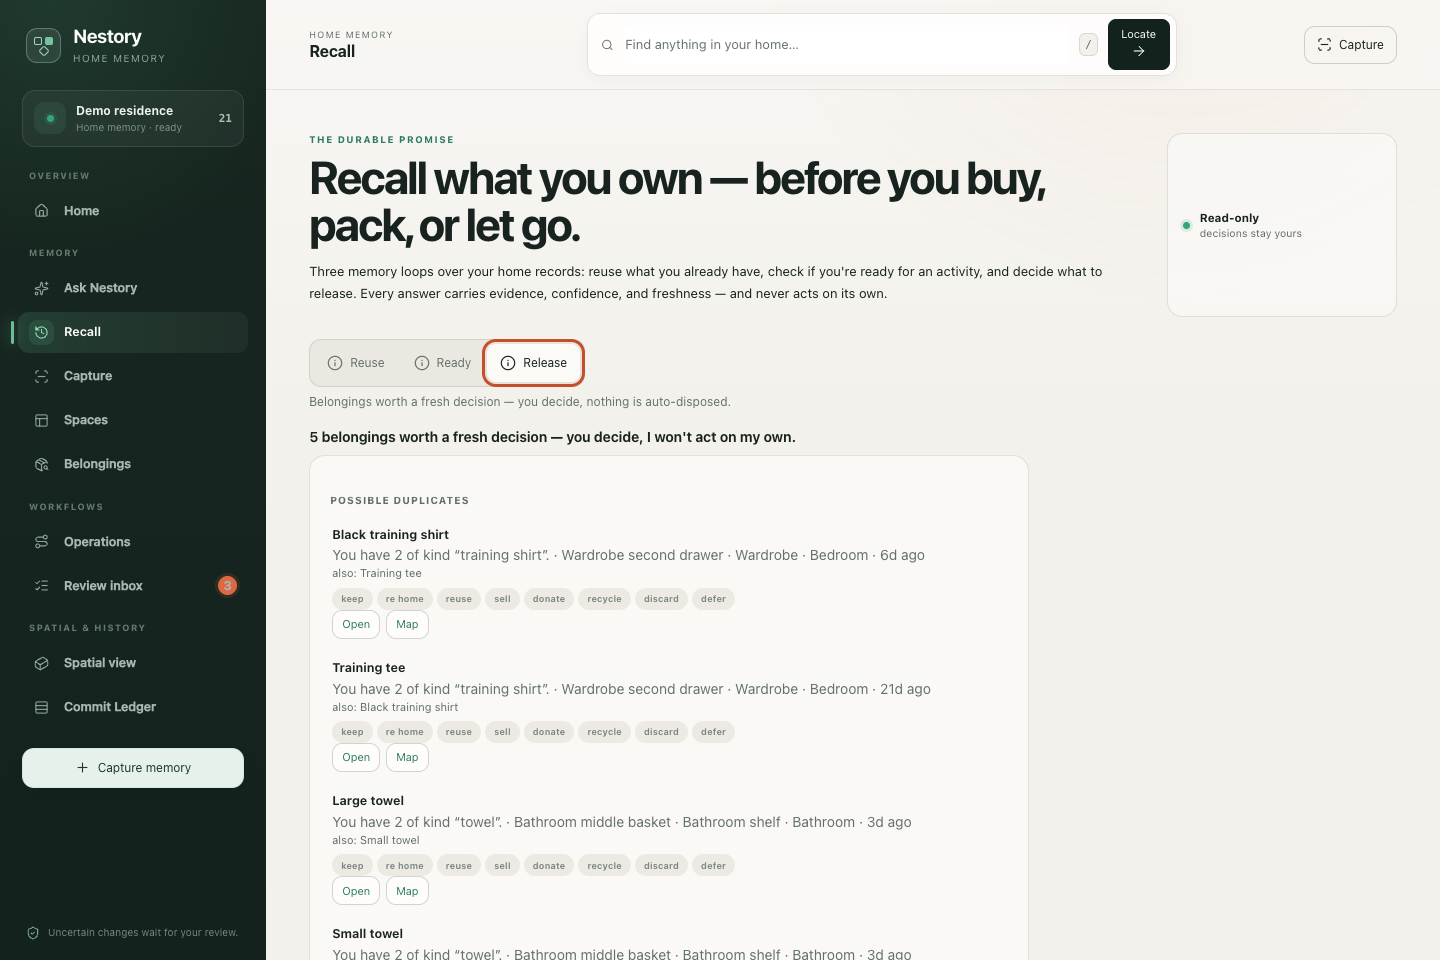
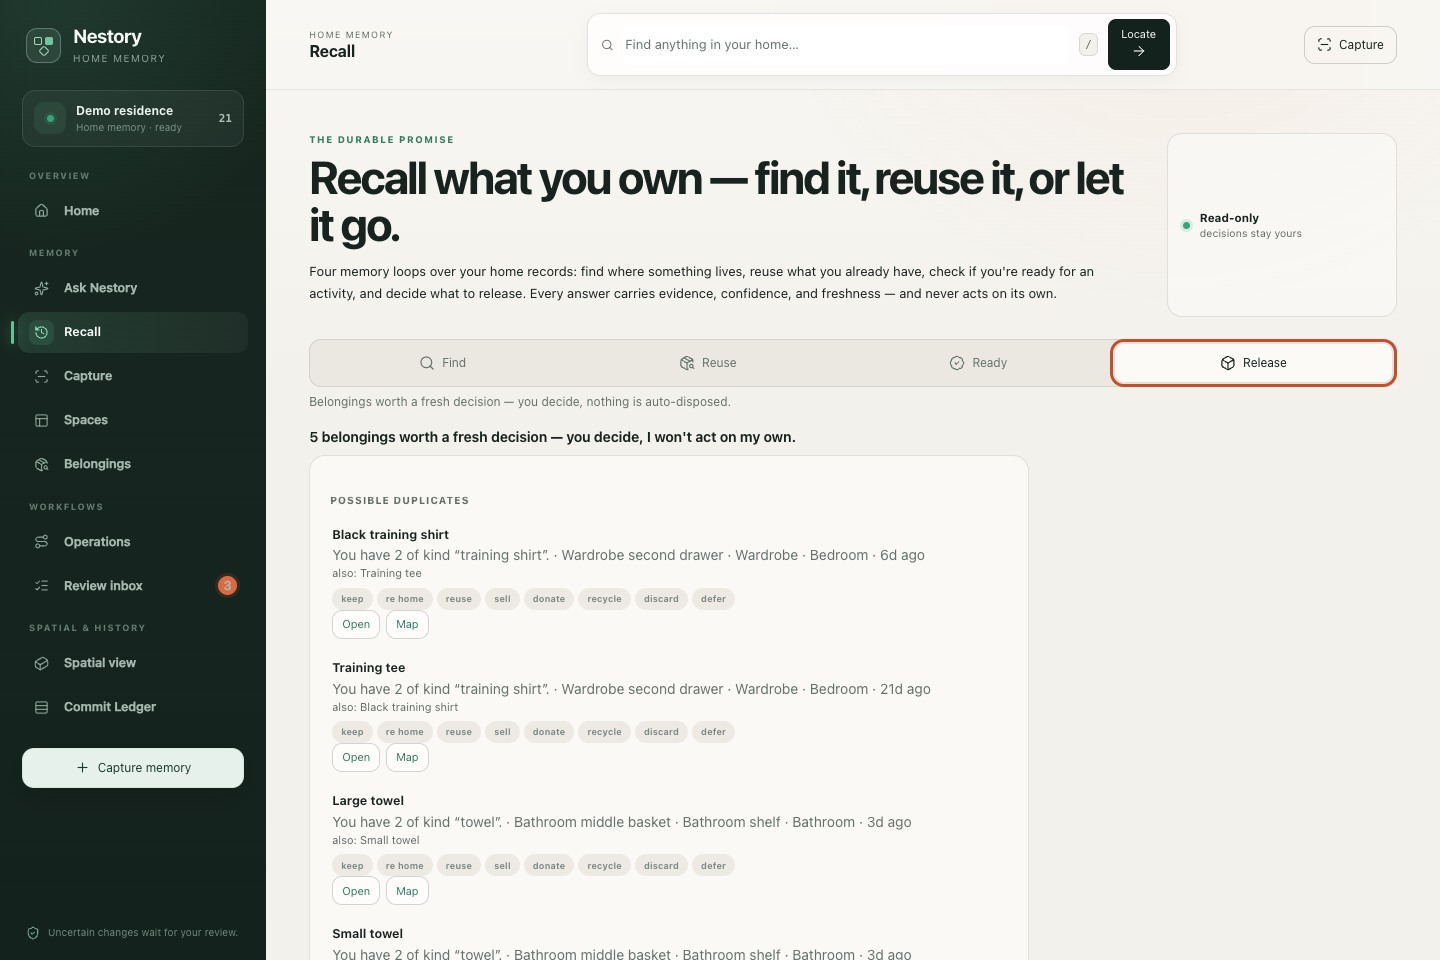
feat(nestory): add a Find tab to the Recall hub — all four vision §5 loops in one place (#14)
The Recall hub covered Reuse/Ready/Release but the Remember/Retrieve loop
(locate + which-box) lived only in the top search bar and Ask. Now Find is the
first Recall tab and the default: one query runs locate() AND whichContainerHas(),
rendering the answer card + the which-container card (both with the #10 evidence
contract) and pairing the located item with the spatial selection so "Show on
plan" reinforces. The container card only appears when locate succeeds, so a
query with no trusted item never shows a lone box list.

Also fixed the tab icons, which were silently falling back to the info glyph:
recycle/circle-check-big/package-minus aren't in lucide-lite, so Reuse/Ready/
Release (and the home "Ready check" + panel empty states) now use real bundled
icons (package-search / badge-check / box). Recall tabs wrap + flex so the 4-tab
bar fits 320px without document overflow.

verify: 546/546 (+dom-recall-find-runs; reuse test now clicks its tab first).

diff --git a/prototype-v2/src/app.ts b/prototype-v2/src/app.ts
@@ -181,11 +181,14 @@ interface UIState {
   containerItemsQuery: string;
   containerItemsOffset: number;
   mediaPending: { room: boolean; container: boolean; snapshot: boolean };
-  recallTab: "reuse" | "ready" | "release";
+  recallTab: "find" | "reuse" | "ready" | "release";
   ownershipQuery: string;
   ownershipResult: DeepReadonly<OwnershipRecallAnswer> | null;
   capabilityQuery: string;
   capabilityResult: DeepReadonly<HomeCapabilityResult> | null;
+  findQuery: string;
+  findResult: DeepReadonly<LocateAnswer> | null;
+  findHits: DeepReadonly<WhichContainerHit[]> | null;
 }
 
 const ui: UIState = {
@@ -219,11 +222,14 @@ const ui: UIState = {
   containerItemsQuery: "",
   containerItemsOffset: 0,
   mediaPending: { room: false, container: false, snapshot: false },
-  recallTab: "reuse",
+  recallTab: "find",
   ownershipQuery: "",
   ownershipResult: null,
   capabilityQuery: "",
-  capabilityResult: null
+  capabilityResult: null,
+  findQuery: "",
+  findResult: null,
+  findHits: null
 };
 
 const compactHomeQuery = window.matchMedia("(max-width: 760px)");
@@ -1323,16 +1329,33 @@ function doAsk(raw: string): AskReply | null {
 }
 
 // ---------------------------------------------------------------- recall
-// The Recall hub gives the three durable retention loops (vision §5) a home of
-// their own instead of living only inside the Ask chat: Reuse (Ownership Recall),
-// Ready (Home Capability), Release (Declutter Review). Each panel is fully
-// interactive and renders the SAME result card the Ask surface uses.
+// The Recall hub gives the vision §5 loops a home of their own instead of living
+// only inside the Ask chat: Find (Remember/Retrieve — locate + which-box), Reuse
+// (Ownership Recall), Ready (Home Capability), Release (Declutter Review). Each
+// panel is fully interactive and renders the SAME result card the Ask surface uses.
 
 const RECALL_TABS: ReadonlyArray<{ id: UIState["recallTab"]; icon: string; label: string; blurb: string }> = [
-  { id: "reuse", icon: "recycle", label: "Reuse", blurb: "Before you buy — do you already own one, or a usable substitute?" },
-  { id: "ready", icon: "circle-check-big", label: "Ready", blurb: "Can your home do this right now, with what you already own?" },
-  { id: "release", icon: "package-minus", label: "Release", blurb: "Belongings worth a fresh decision — you decide, nothing is auto-disposed." }
+  { id: "find", icon: "search", label: "Find", blurb: "Where is it — and which box or drawer holds it? Every answer carries confidence and freshness." },
+  { id: "reuse", icon: "package-search", label: "Reuse", blurb: "Before you buy — do you already own one, or a usable substitute?" },
+  { id: "ready", icon: "badge-check", label: "Ready", blurb: "Can your home do this right now, with what you already own?" },
+  { id: "release", icon: "box", label: "Release", blurb: "Belongings worth a fresh decision — you decide, nothing is auto-disposed." }
 ];
+
+// Find (Remember/Retrieve): one query answers both "where is it?" (locate) and
+// "which container holds it?" (which-box), so the hub covers the loop the top
+// search bar and Ask handle — with the same evidence contract, in one place.
+function doRecallFind(query: string): void {
+  const q = query.trim();
+  ui.findQuery = q;
+  if (!q) { ui.findResult = null; ui.findHits = null; render(); return; }
+  const answer = act(() => store.locate(q), null);
+  ui.findResult = answer ?? null;
+  ui.findHits = act(() => store.whichContainerHas(q), null) ?? null;
+  // Pair the located item with the spatial selection so "Show on plan" reinforces.
+  if (answer?.ok) setLocateAnswer(answer);
+  render();
+  if (answer) announce(answer.sentence);
+}
 
 function doOwnershipRecall(query: string): void {
   const q = query.trim();
@@ -1361,7 +1384,7 @@ function recallReusePanel(): string {
     </div>
     <div class="recall-chips">${examples.map((e) => `<button data-action="ownership-example" data-q="${esc(e)}">${esc(e)}</button>`).join("")}</div>
     ${o ? `<div data-testid="ownership-result"><p class="recall-sentence">${esc(o.sentence)}</p>${ownershipCard(o)}</div>`
-      : `<div class="empty-inline light"><i data-lucide="recycle"></i><span>Name a category to see if you already own one — reuse beats re-buying.</span></div>`}
+      : `<div class="empty-inline light"><i data-lucide="package-search"></i><span>Name a category to see if you already own one — reuse beats re-buying.</span></div>`}
   </div>`;
 }
 
@@ -1370,13 +1393,13 @@ function recallReadyPanel(): string {
   const profiles = store.catalog.capabilityProfiles ?? [];
   return `<div class="recall-panel" data-testid="recall-ready">
     <div class="ask-composer">
-      <i data-lucide="circle-check-big"></i>
+      <i data-lucide="badge-check"></i>
       <input type="text" id="capability-input" aria-label="An activity to check" data-enter="capability-check" value="${esc(ui.capabilityQuery)}" placeholder="An activity — work out at home, go camping, fix a wobbly chair…">
       <button class="primary" data-action="capability-check" data-testid="btn-capability"><span>Check</span><i data-lucide="arrow-up-right"></i></button>
     </div>
     <div class="recall-chips">${profiles.map((p) => `<button data-action="capability-example" data-q="${esc(p.triggers[0] ?? p.label)}">${esc(p.label)}</button>`).join("")}</div>
     ${c ? `<div data-testid="capability-result"><p class="recall-sentence">${esc(c.sentence)}</p>${capabilityCard(c)}</div>`
-      : `<div class="empty-inline light"><i data-lucide="circle-check-big"></i><span>Pick an activity to see what you already own for it — and the honest gaps.</span></div>`}
+      : `<div class="empty-inline light"><i data-lucide="badge-check"></i><span>Pick an activity to see what you already own for it — and the honest gaps.</span></div>`}
   </div>`;
 }
 
@@ -1388,15 +1411,34 @@ function recallReleasePanel(): string {
   </div>`;
 }
 
+function recallFindPanel(): string {
+  const a = ui.findResult;
+  const hits = ui.findHits ?? [];
+  const examples = ["water bottle", "passport", "winter jacket", "charger"];
+  // Only show the container card when locate succeeded (avoid a lone "which box"
+  // list for a query with no trusted item — that would read as fabricated).
+  const containerBlock = a?.ok && hits.length ? whichContainerCard(hits) : "";
+  return `<div class="recall-panel" data-testid="recall-find">
+    <div class="ask-composer">
+      <i data-lucide="search"></i>
+      <input type="text" id="find-input" aria-label="What are you looking for" data-enter="recall-find" value="${esc(ui.findQuery)}" placeholder="What are you looking for — water bottle, passport, winter jacket…">
+      <button class="primary" data-action="recall-find" data-testid="btn-recall-find"><span>Find</span><i data-lucide="arrow-up-right"></i></button>
+    </div>
+    <div class="recall-chips">${examples.map((e) => `<button data-action="recall-find-example" data-q="${esc(e)}">${esc(e)}</button>`).join("")}</div>
+    ${a ? `<div data-testid="find-result"><p class="recall-sentence">${esc(a.sentence)}</p>${renderAnswerCard(a)}${containerBlock}</div>`
+      : `<div class="empty-inline light"><i data-lucide="search"></i><span>Name something to see where it lives — with confidence, freshness, and which box or drawer holds it.</span></div>`}
+  </div>`;
+}
+
 function renderRecall(): string {
   const tab = ui.recallTab;
   const active = RECALL_TABS.find((t) => t.id === tab) ?? RECALL_TABS[0]!;
-  const body = tab === "reuse" ? recallReusePanel() : tab === "ready" ? recallReadyPanel() : recallReleasePanel();
+  const body = tab === "find" ? recallFindPanel() : tab === "reuse" ? recallReusePanel() : tab === "ready" ? recallReadyPanel() : recallReleasePanel();
   return `<section data-testid="view-recall">
     ${renderPageIntro({
       eyebrow: "The durable promise",
-      title: "Recall what you own — before you buy, pack, or let go.",
-      description: "Three memory loops over your home records: reuse what you already have, check if you're ready for an activity, and decide what to release. Every answer carries evidence, confidence, and freshness — and never acts on its own.",
+      title: "Recall what you own — find it, reuse it, or let it go.",
+      description: "Four memory loops over your home records: find where something lives, reuse what you already have, check if you're ready for an activity, and decide what to release. Every answer carries evidence, confidence, and freshness — and never acts on its own.",
       className: "recall-intro",
       aside: `<div class="ask-contract"><span class="live-dot"></span><span><strong>Read-only</strong><small>decisions stay yours</small></span></div>`
     })}
@@ -1645,7 +1687,7 @@ function renderHome(): string {
         </div>
         <div class="quick-actions">
           <button data-action="nav" data-view="capture"><i data-lucide="scan-line"></i><span>Capture</span></button>
-          <button data-action="recall-open" data-tab="ready"><i data-lucide="circle-check-big"></i><span>Ready check</span></button>
+          <button data-action="recall-open" data-tab="ready"><i data-lucide="badge-check"></i><span>Ready check</span></button>
           <button data-action="nav" data-view="plan"><i data-lucide="cuboid"></i><span>Spatial view</span></button>
         </div>
       </div>
@@ -2695,8 +2737,10 @@ document.addEventListener("click", (e) => {
     case "hero-locate": doLocate(inputValue("hero-search-input"), "hero-search-input"); break;
     case "ask-send": doAsk(inputValue("ask-input")); break;
     case "ask-prompt": if (t.dataset.prompt) { if (ui.view !== "ask") navigate("ask"); doAsk(t.dataset.prompt); } break;
-    case "recall-tab": if (t.dataset.tab === "reuse" || t.dataset.tab === "ready" || t.dataset.tab === "release") { ui.recallTab = t.dataset.tab; controlReturnFocus = focusBookmark(t); render(); } break;
-    case "recall-open": if (t.dataset.tab === "reuse" || t.dataset.tab === "ready" || t.dataset.tab === "release") ui.recallTab = t.dataset.tab; navigate("recall"); break;
+    case "recall-tab": if (t.dataset.tab === "find" || t.dataset.tab === "reuse" || t.dataset.tab === "ready" || t.dataset.tab === "release") { ui.recallTab = t.dataset.tab; controlReturnFocus = focusBookmark(t); render(); } break;
+    case "recall-open": if (t.dataset.tab === "find" || t.dataset.tab === "reuse" || t.dataset.tab === "ready" || t.dataset.tab === "release") ui.recallTab = t.dataset.tab; navigate("recall"); break;
+    case "recall-find": doRecallFind(inputValue("find-input")); break;
+    case "recall-find-example": if (t.dataset.q) doRecallFind(t.dataset.q); break;
     case "ownership-check": doOwnershipRecall(inputValue("ownership-input")); break;
     case "ownership-example": if (t.dataset.q) doOwnershipRecall(t.dataset.q); break;
     case "capability-check": doCapabilityCheck(inputValue("capability-input")); break;
@@ -3144,6 +3188,7 @@ document.addEventListener("keydown", (e) => {
   if (enter === "ask-send") doAsk(target.value);
   if (enter === "ownership-check") doOwnershipRecall(target.value);
   if (enter === "capability-check") doCapabilityCheck(target.value);
+  if (enter === "recall-find") doRecallFind(target.value);
   if (enter === "box-search") { ui.boxQuery = target.value; render(); }
   if (enter === "setup-add-room-custom" || enter === "setup-add-container" || enter === "setup-add-belonging") {
     const btn = document.querySelector<HTMLElement>(`[data-action="${enter}"]`);

diff --git a/prototype-v2/src/verify.ts b/prototype-v2/src/verify.ts
@@ -2832,8 +2832,22 @@ async function runBrowserSmoke(): Promise<void> {
     // interactive view. Drive each tab and assert its live result card renders.
     await evalPage(`window.nestory.setView("recall")`);
     assert("dom-recall-view-renders", await evalPage<boolean>(`Boolean(document.querySelector('[data-testid="view-recall"]'))`));
-    // Reuse: type a category, run ownership recall.
+    // #14: Find is the first Recall tab (Remember/Retrieve) — locate + which-box in
+    // one place, carrying the same evidence contract as Ask. It opens by default.
+    assert("dom-recall-find-runs", await evalPage<boolean>(`(() => {
+      const input = document.getElementById('find-input'); if (!(input instanceof HTMLInputElement)) return false;
+      input.value = 'winter jacket';
+      document.querySelector('[data-testid="btn-recall-find"]')?.click();
+      const result = document.querySelector('[data-testid="find-result"]');
+      const t = result?.textContent ?? '';
+      // Locate answer card + which-container card (with confidence) both present.
+      const hasAnswer = Boolean(result?.querySelector('[data-testid="answer-card"]'));
+      const hasContainer = Boolean(result?.querySelector('[data-testid="which-container-card"]'));
+      return hasAnswer && hasContainer && /conf \\d\\.\\d\\d/.test(t);
+    })()`));
+    // Reuse: switch tab, type a category, run ownership recall.
     assert("dom-recall-reuse-runs", await evalPage<boolean>(`(() => {
+      document.querySelector('[data-testid="recall-tab-reuse"]')?.click();
       const input = document.getElementById('ownership-input'); if (!(input instanceof HTMLInputElement)) return false;
       input.value = 'charger';
       document.querySelector('[data-testid="btn-ownership"]')?.click();

diff --git a/prototype-v2/nestory.css b/prototype-v2/nestory.css
@@ -1019,7 +1019,8 @@ input::placeholder, textarea::placeholder { color: #68736e; opacity: 1; }
 .technical-details .cops { display: flex; flex-wrap: wrap; gap: 5px; margin-top: 7px; }
 
 /* ---------------------------------------------------------------- recall */
-.recall-tabs { margin-bottom: 6px; }
+.recall-tabs { display: flex; margin-bottom: 6px; flex-wrap: wrap; max-width: 100%; }
+.recall-tabs button { flex: 1 1 auto; justify-content: center; min-width: 0; }
 .recall-blurb { margin: 0 0 14px; color: var(--ink-soft); font-size: 12px; line-height: 1.55; }
 .recall-panel { max-width: 720px; }
 .recall-panel .ask-composer { margin: 0 0 12px; }

diff --git a/prototype-v2/renders/verification-report.md b/prototype-v2/renders/verification-report.md
@@ -1,12 +1,12 @@
 # Nestory V2 Verification Report
-Generated: 2026-08-23T14:52:24.646Z
+Generated: 2026-08-23T15:37:17.931Z
 Runtime: node v26.7.0 · typescript strict
-- Assertions: 545
-- Passed: 545
+- Assertions: 546
+- Passed: 546
 - Failed: 0
 - Browser smoke: ran
-- UI DOM-commit p95: 2.500 ms
-- Household UI DOM-commit p95: 5.700 ms
+- UI DOM-commit p95: 2.000 ms
+- Household UI DOM-commit p95: 5.300 ms
 - Presentation latency is measured separately by `npm run browser-benchmark`; this correctness harness does not treat headless RAF scheduling as paint evidence.
 - Settled spatial RAF callbacks observed: 0
 - Screenshots: nestory-welcome.png, nestory-mobile-welcome.png, nestory-home.png, nestory-review.png, nestory-operations-move.png, nestory-operations-kit.png, nestory-plan-3d.png, nestory-plan.png, nestory-capture-scan.png, nestory-spaces.png, nestory-ask.png, nestory-recall.png, nestory-mobile-more.png, nestory-mobile-capture.png, nestory-mobile-review.png, nestory-mobile-plan.png, nestory-mobile-plan-2d.png, nestory-mobile-belongings.png, nestory-mobile-home.png, nestory-setup.png, nestory-own-home.png, nestory-boot-recovery.png
@@ -472,6 +472,7 @@ Runtime: node v26.7.0 · typescript strict
 - ✓ `dom-ask-which-container-card`
 - ✓ `dom-ask-container-contents-card`
 - ✓ `dom-recall-view-renders`
+- ✓ `dom-recall-find-runs`
 - ✓ `dom-recall-reuse-runs`
 - ✓ `dom-recall-show-on-map-lands-on-plan`
 - ✓ `dom-recall-ready-runs`
